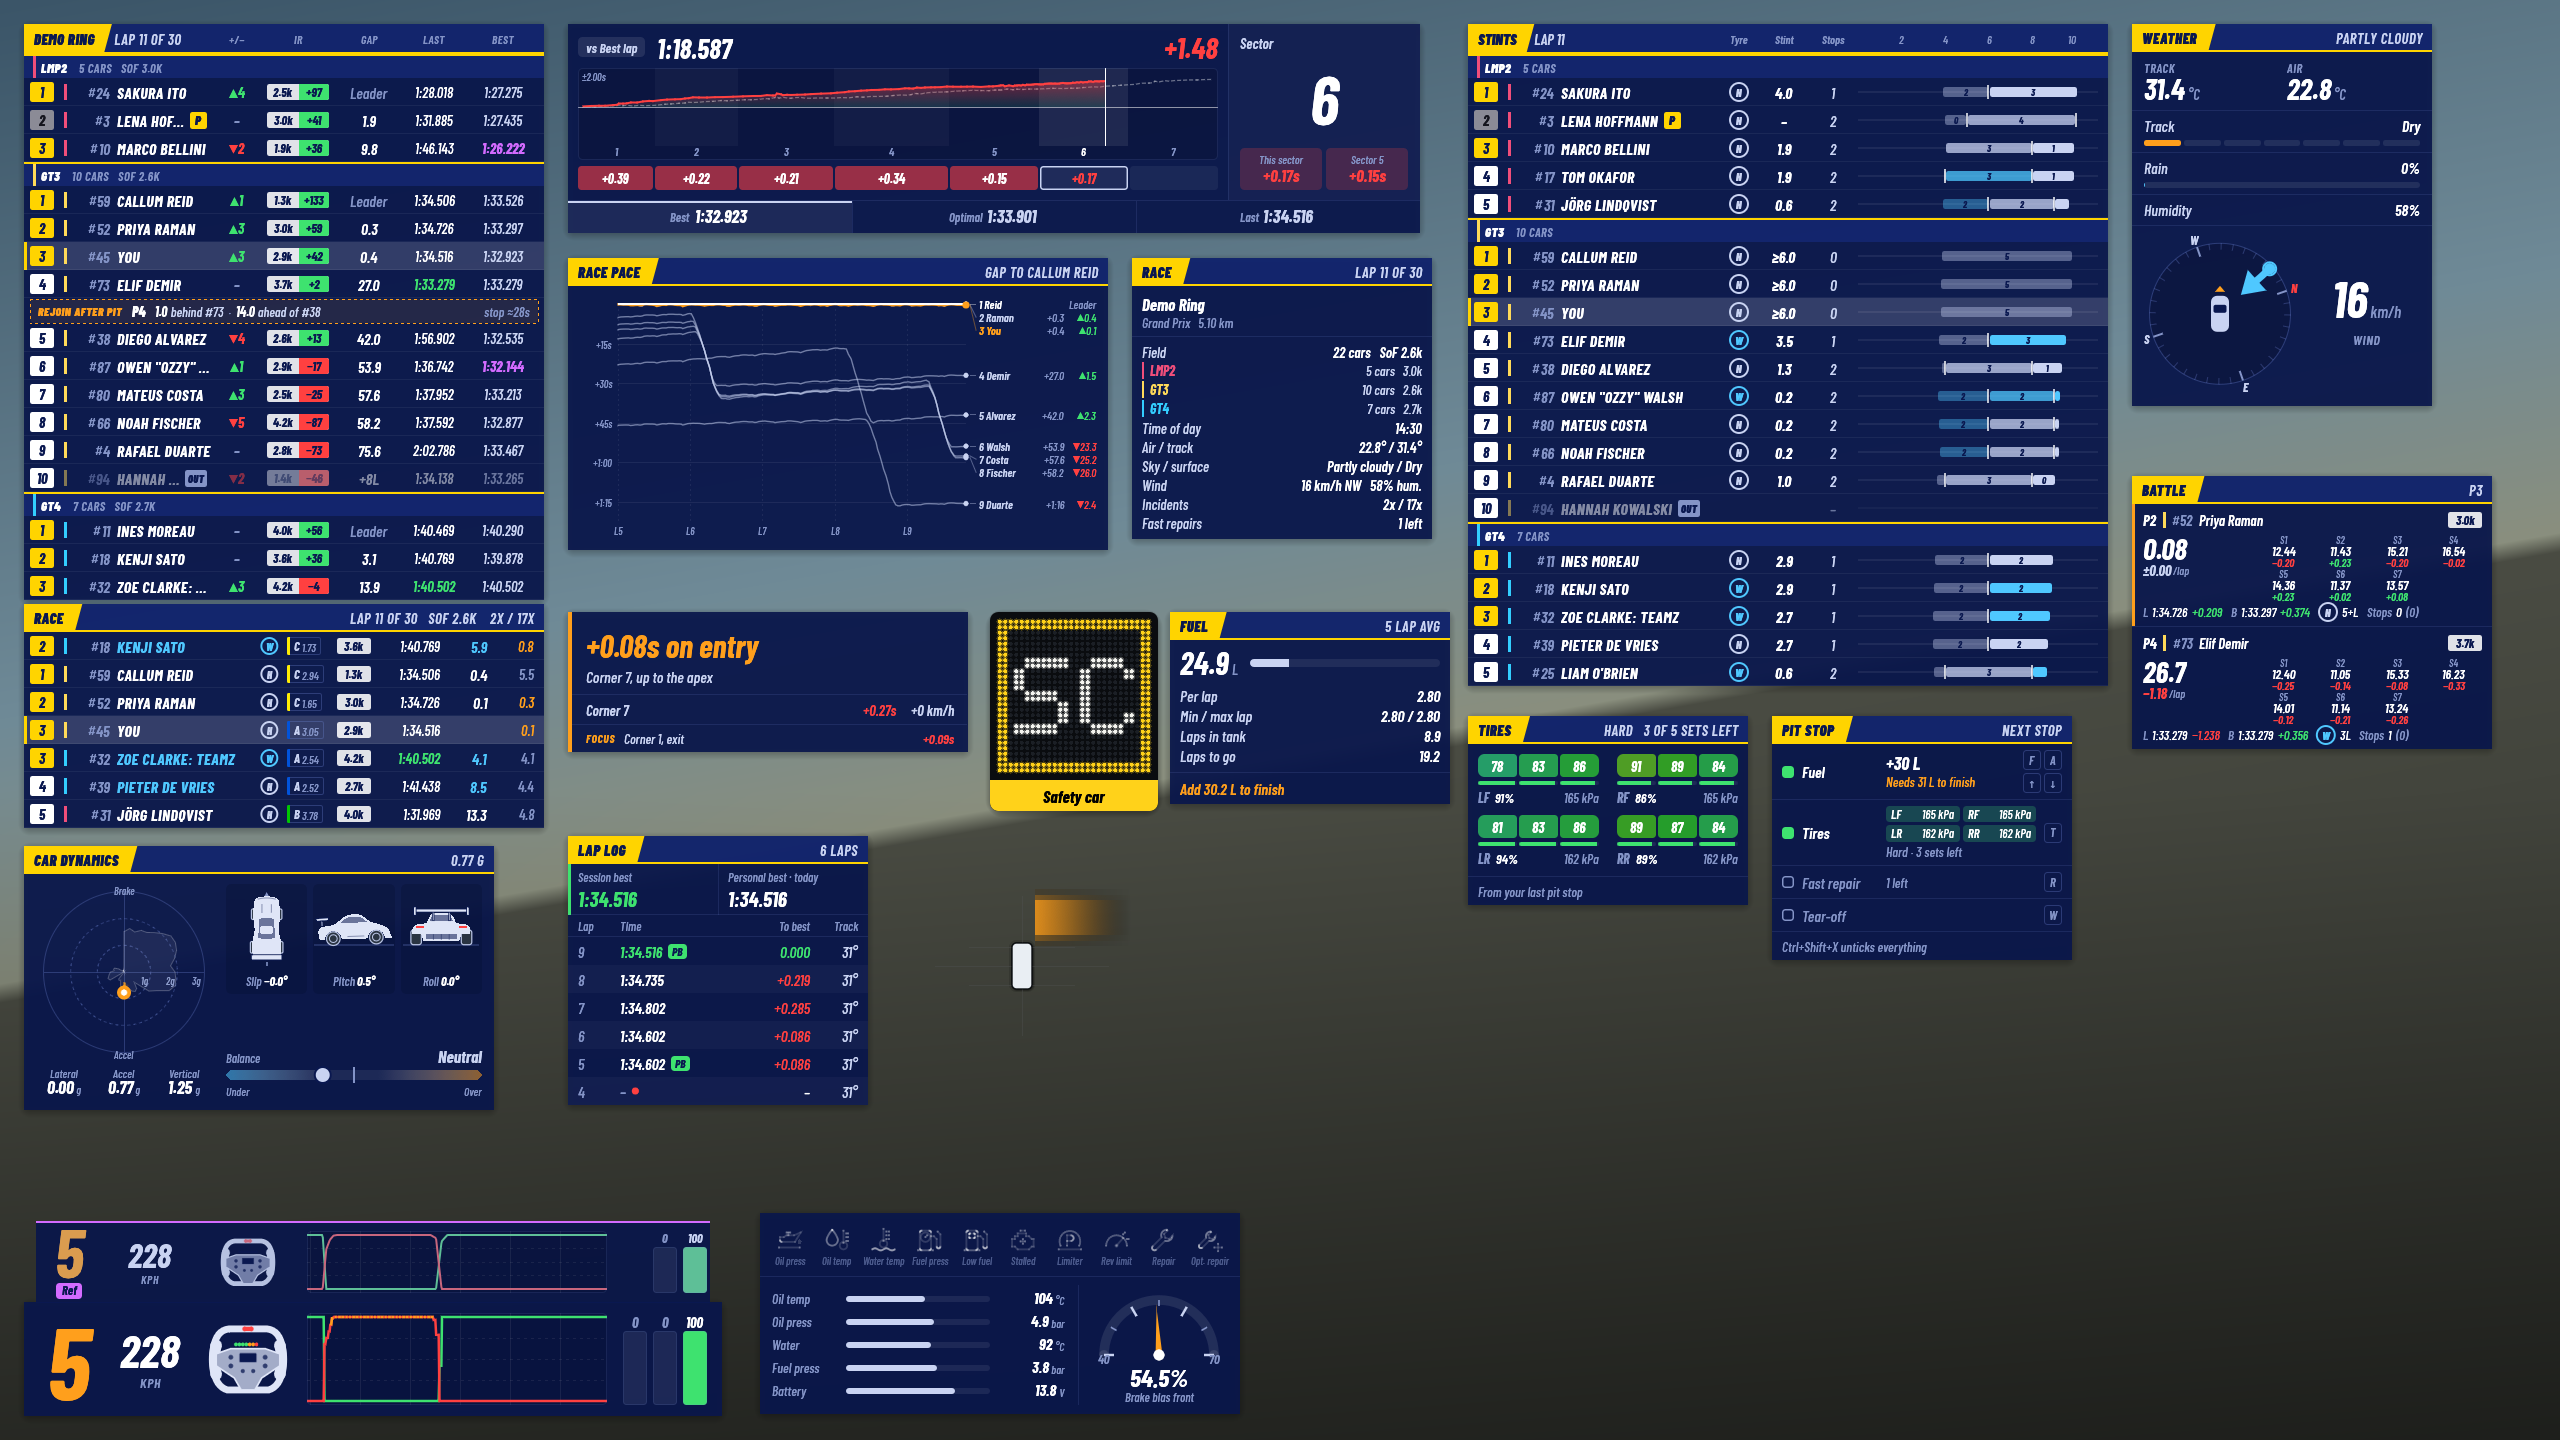
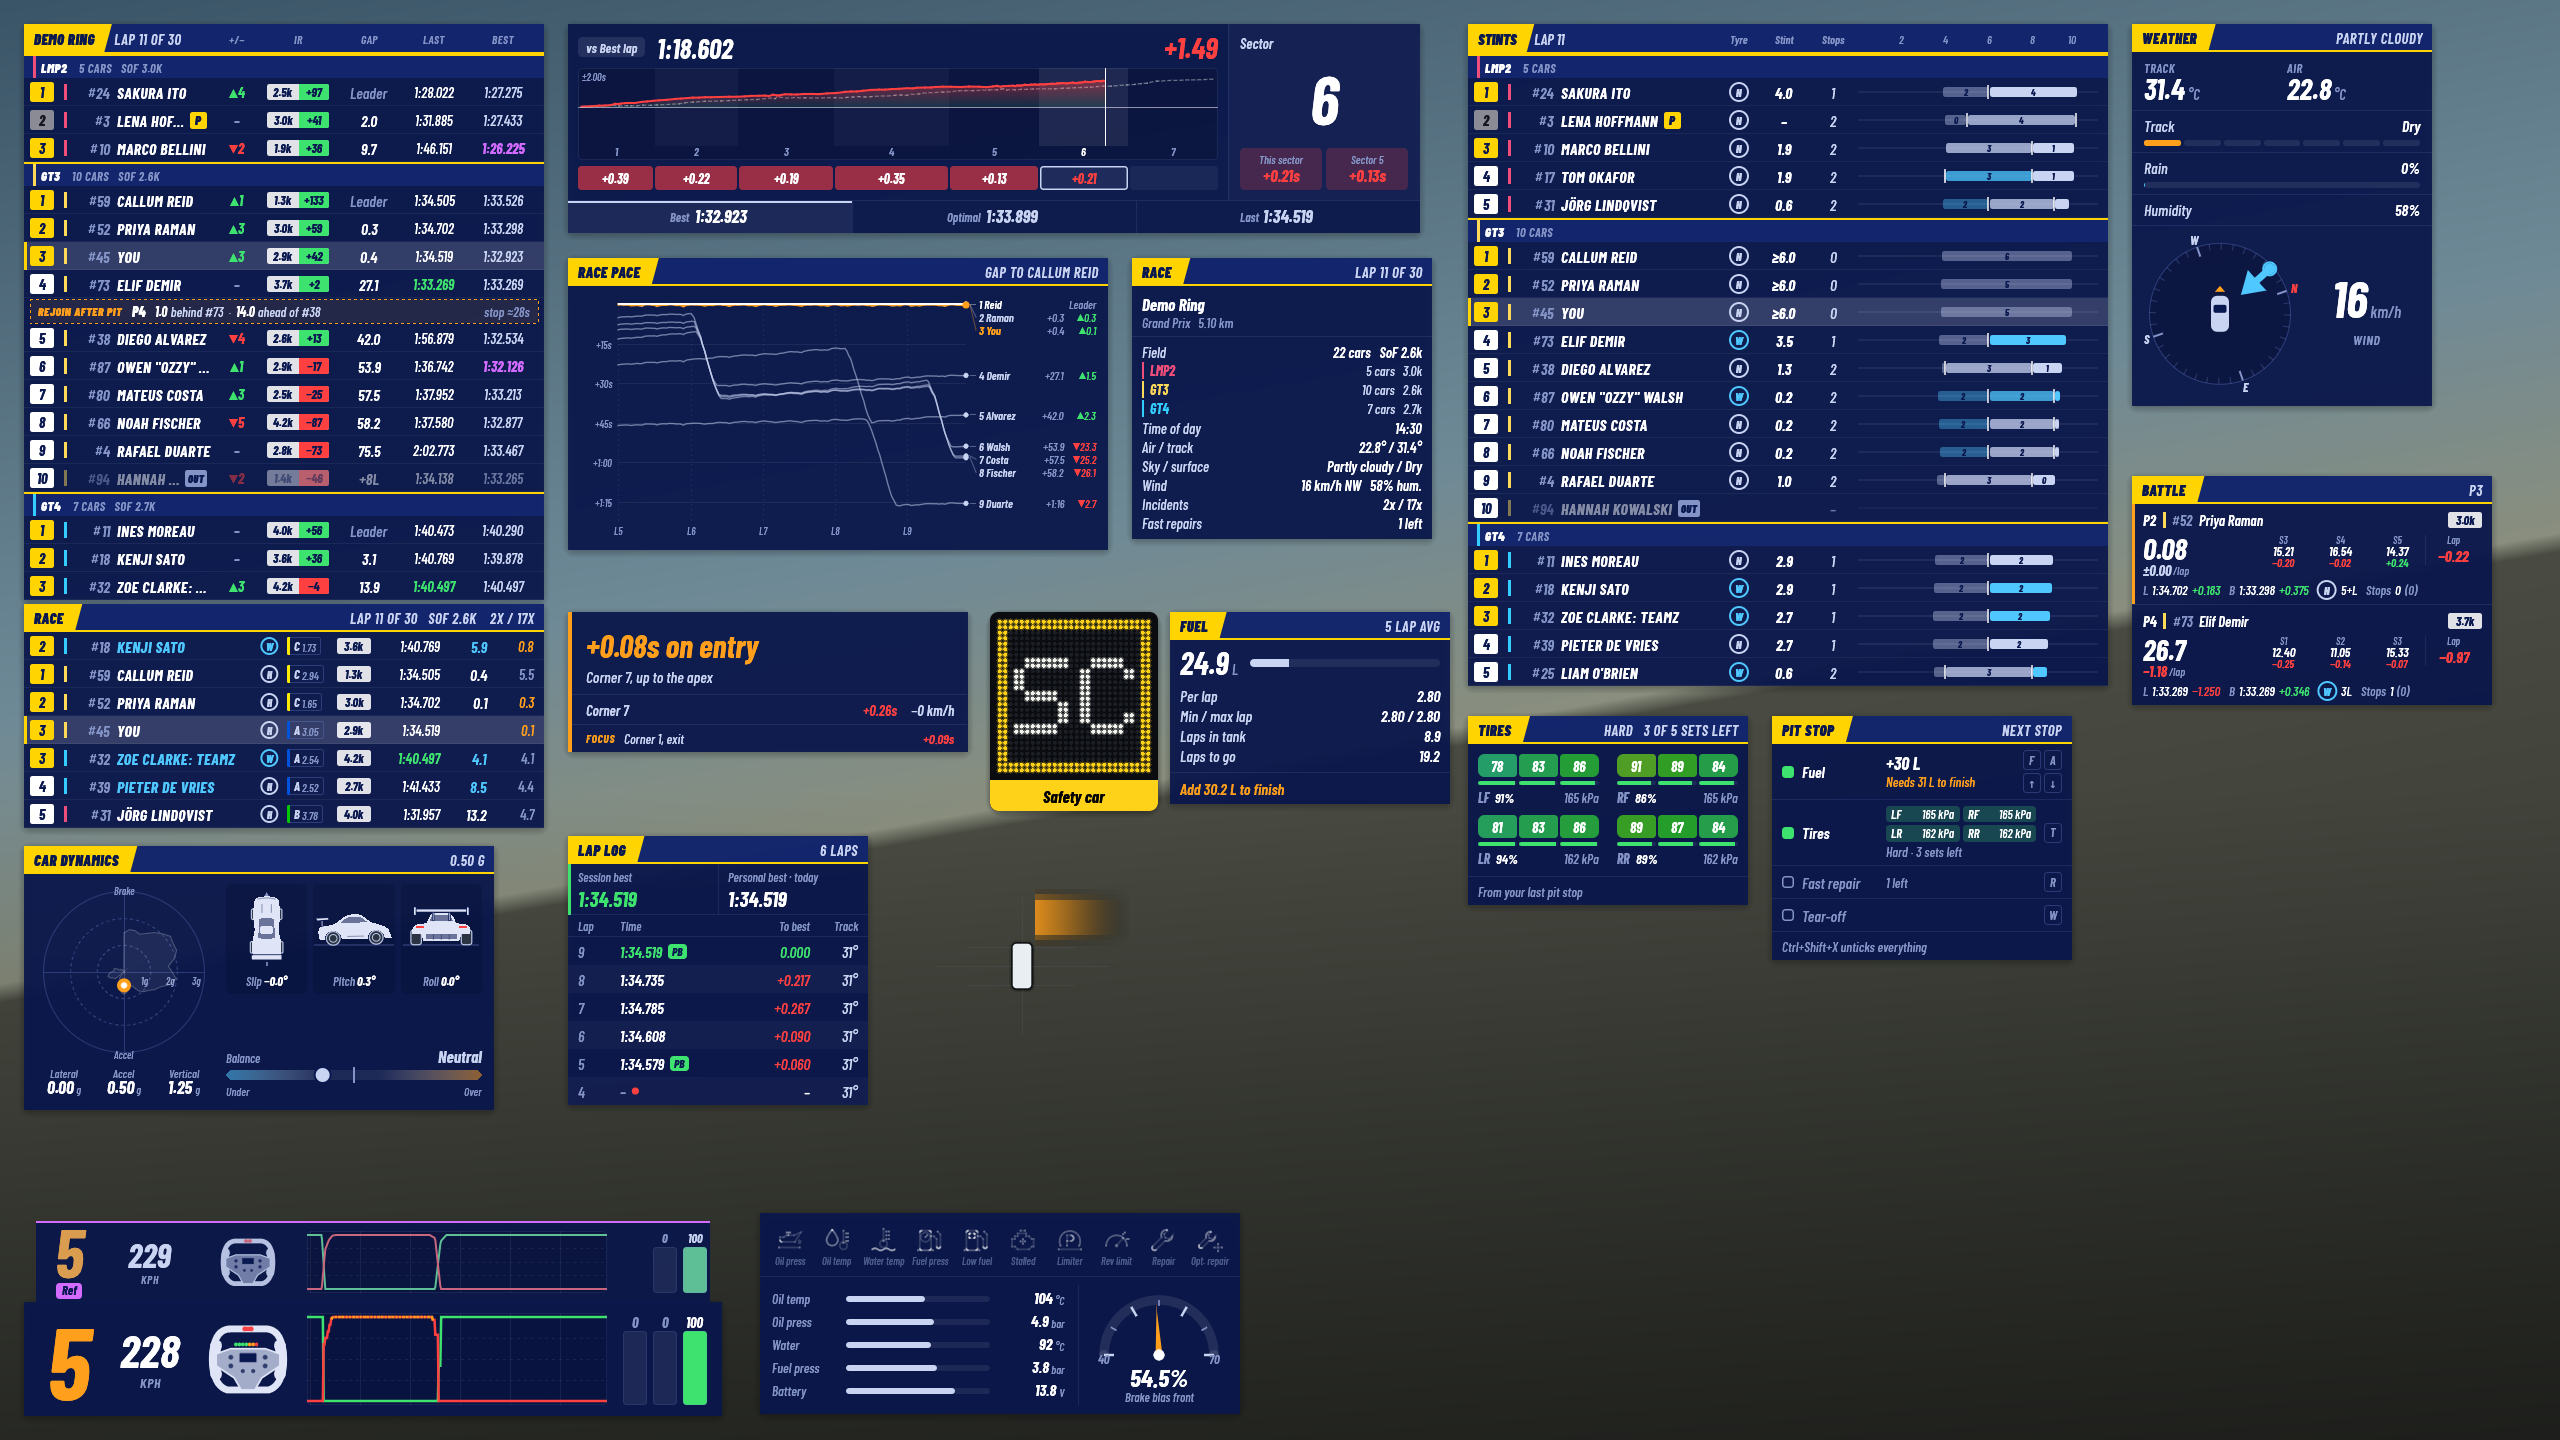
Version 0.6.3
Night and '90s themes, Battle's last three sectors and this lap's change,
updates looked for under the repository's new name. README explains the
move from the Tauri app (0.4.13) to egui, and every picture is retaken.

Claude-Session: https://claude.ai/code/session_013hzfFXxra7Gh1adzFYjA4b

Changed region(s): [[0.8125, 0.375, 0.9688, 0.5312], [0.375, 0.125, 0.4062, 0.1562]]

diff --git a/app/src/updates.rs b/app/src/updates.rs
@@ -40,8 +40,8 @@ use crate::shell::Request;
 
 /// The updater's public key: base64 of a minisign public key file (`plugins.updater.pubkey` in the Tauri app's `tauri.conf.json`).
[1 lines of base64/hex data omitted]
-/// The newest release's `latest.json`, the same URL the Tauri app reads.
-pub const ENDPOINT: &str = "https://github.com/scarnegie96/Tenths-iRacing-Overlay/releases/latest/download/latest.json";
+/// The newest release's `latest.json`. (The 0.4 Tauri app reads the repository's old name, which GitHub redirects here.)
+pub const ENDPOINT: &str = "https://github.com/scarnegie96/2TenthsOverlay/releases/latest/download/latest.json";
 /// This build's version.
 pub const VERSION: &str = env!("CARGO_PKG_VERSION");
 

diff --git a/README.md b/README.md
@@ -6,9 +6,17 @@ directly and draws a set of configurable widgets over the sim: no
 subscriptions, no third-party services, and every line of it is yours to change.
 
 It runs as one small program with each widget in its own small window over the game, so iRacing gives up as little
-as possible to it. The previous version, a Tauri app with the widgets drawn as
-web pages, is kept in [`archive/tauri/`](archive/tauri) and on the
-`archive/tauri` branch.
+as possible to it.
+
+**From 0.6 on, Tenths is a new app.** Versions up to 0.4.13 were built with
+Tauri, with every widget drawn as a web page. That used a lot more memory, kept
+growing over a long session and cost noticeable frame rate in iRacing. 0.6 is
+a rewrite of the same app in Rust and egui, drawn natively: same widgets, same
+settings window, same keys, a fraction of the memory and CPU. Your settings,
+layouts, laps, ratings and race reports carry straight over, and a 0.4 install
+updates itself to it from its own **Update** button. The Tauri version is kept
+as it was in [`archive/tauri/`](archive/tauri) and on the `archive/tauri`
+branch.
 
 Note: This is in active development, progressing quickly. I am trying to provide a free, open-source but still useful tool. There may (read: will) be bugs. 
 
@@ -522,7 +530,7 @@ them; there's no Save button.
 The **tray icon** opens the settings window with a left click. Its right-click
 menu has Open settings, Edit layout, Show / hide overlays and Next layout (each
 with its current key), Check for updates (it says
-"Update to 0.5.1…" once a newer version is found) and Quit Tenths. Starting Tenths again while it's
+"Update to x.y.z…" once a newer version is found) and Quit Tenths. Starting Tenths again while it's
 running opens its settings window. Closing the settings window only hides
 it; Tenths keeps running until you quit it from the tray.
 
@@ -704,24 +712,27 @@ A reference is only used when its track and layout match the session.
 Releases page and run it. It installs for your user only (no administrator
 rights, in `%LOCALAPPDATA%\Tenths`) with a Start menu shortcut, and appears in
 Windows' Apps list for uninstalling; uninstalling leaves your settings and laps
-alone. If you have a 0.4 (Tauri) version installed, its own **Update** button
-brings you to this one, replacing it in place, and everything you set up
-carries over. The installer takes `/S` (no windows), `/P` (progress only) and
+alone. The installer takes `/S` (no windows), `/P` (progress only) and
 `/R` (start Tenths afterwards).
 
-There are no releases of this version yet. Until then every push to
-`development` builds it on GitHub: open **Actions → Windows build**, pick the
-latest run and download **tenths-windows** (one file, `tenths.exe`, no
-installer: put it anywhere and run it) or **tenths-installer-unsigned** (the
-installer, to try the install; it isn't signed, so an installed Tenths won't
-take it as an update).
+**Coming from 0.4 (the Tauri version)?** Press **Update** in its Settings →
+About (or just run the new installer). It replaces the old app in place, in
+the same folder with the same shortcut and uninstall entry, and keeps
+everything you set up. Nothing needs uninstalling first.
+
+**Test builds:** every push to `development` builds Tenths on GitHub. Open
+**Actions → Windows build**, pick the latest run and download
+**tenths-windows** (one file, `tenths.exe`, no installer: put it anywhere and
+run it) or **tenths-installer-unsigned** (the installer, to try the install;
+it isn't signed, so an installed Tenths won't take it as an update).
 
 In iRacing, set the display mode to **borderless windowed**. No overlay can draw
 over exclusive fullscreen.
 
 It reads and writes the same settings, layouts, laps, ratings and race reports
-as the Tauri version (below), so everything you set up there carries over.
-Don't run both at once: they use the same keys.
+as the 0.4 Tauri version (below), so everything you set up there carries over.
+If you build the archived version yourself, don't run both at once: they use
+the same keys.
 
 | Option | Does |
 | ------ | ---- |
@@ -806,7 +817,7 @@ Everything is in `%APPDATA%\dev.tenths.overlay\`:
 
 If `config.json` can't be read, Tenths keeps it as
 `config.corrupt-<date>.json`, starts with default settings and says so in
-Settings. These are the same files the Tauri version used.
+Settings. These are the same files the 0.4 Tauri version used.
 
 ## Working on it from a Mac or Linux
 

diff --git a/CHANGELOG.md b/CHANGELOG.md
@@ -4,8 +4,9 @@ Each version's section becomes its GitHub release notes, which Tenths shows in
 Settings → About when it offers the update. Add a section like the ones below
 when you bump the version.
 
-## Unreleased
+## 0.6.3
 
+- Updates are looked for under the project's new name on GitHub (2TenthsOverlay). The old address still redirects, so earlier versions keep finding updates too.
 - Battle: shows only the last three sectors (the three just finished by whichever of you is behind on track, so you've both driven them) instead of every sector, and next to them **Lap**: how much the gap has changed so far this lap, live, back to 0 each time you start a new lap.
 - Two new themes in Settings → Appearance. **Night**: dim and warm for night stints and dark rooms, with nearly solid panels, amber text and nothing close to white, and the flag board, radar and tyre colours turned down so they don't glare. **'90s**: yellow and white on deep blue like the TV graphics of the time, with heavy condensed italic type, headings on slanted yellow tabs and positions in yellow and white boxes. Both have their own colour pickers like the other themes.
 
